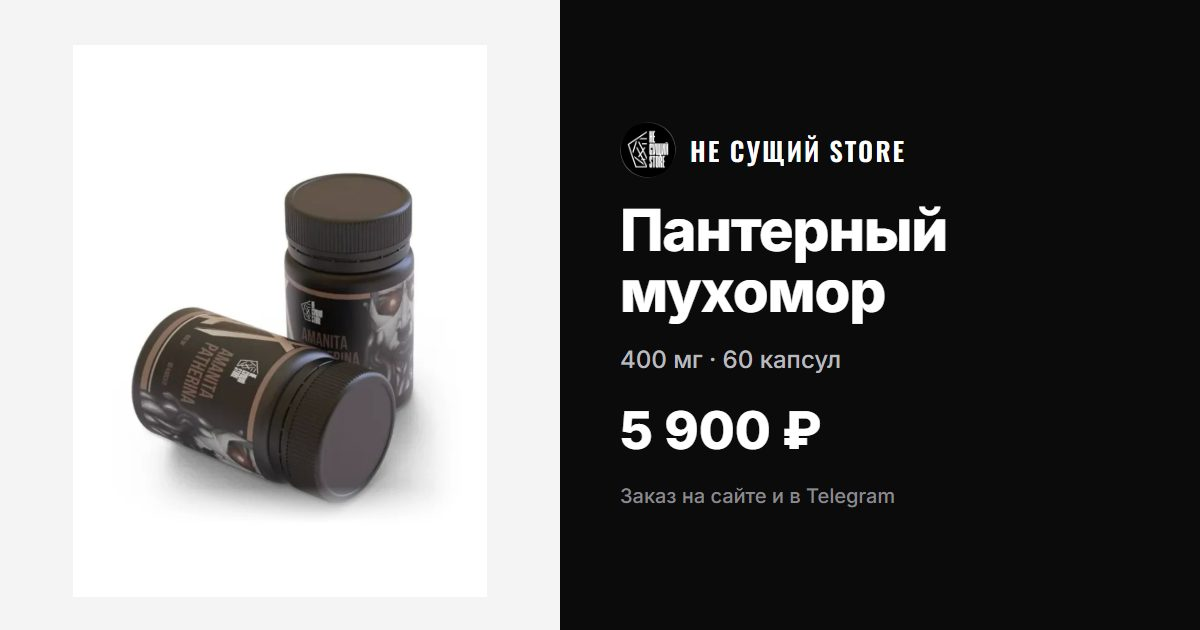
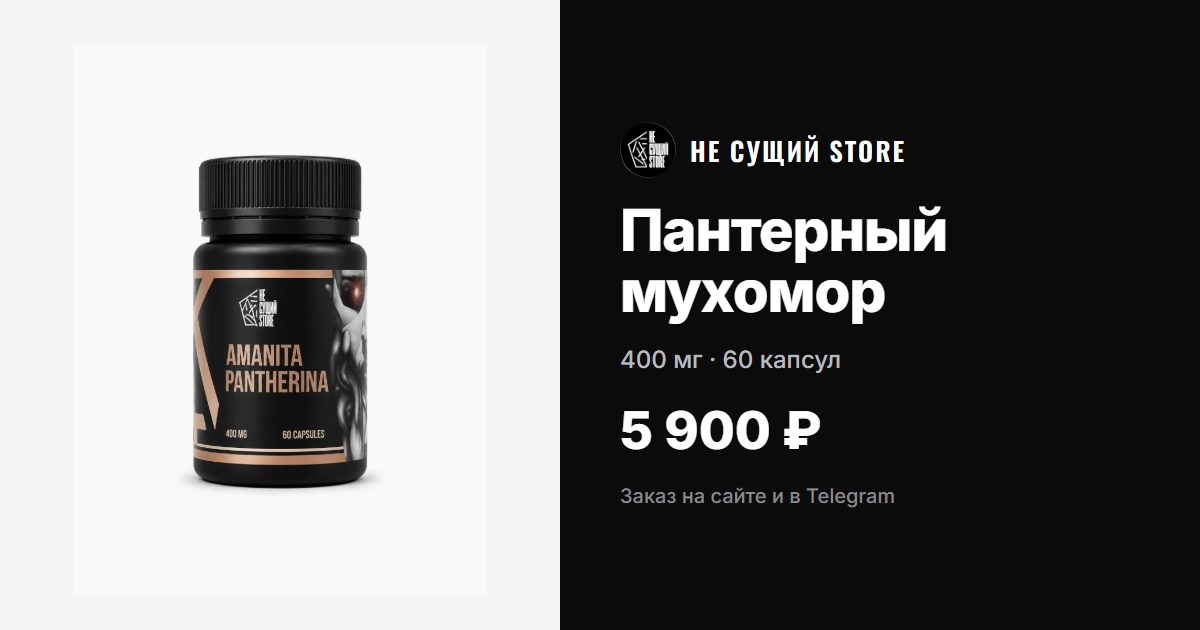
Сайт: b3b929b Новое фото Пантерного мухомора — банка Amanita Pantherina в общем кадре

Changed region(s): [[0.0925, 0.2413, 0.37, 0.8143]]

diff --git a/index.html b/index.html
@@ -24,12 +24,12 @@
   <!-- шрифты не блокируют первую отрисовку -->
   <link rel="preload" as="style" href="https://fonts.googleapis.com/css2?family=Inter:wght@400;500;600;700;800&family=Oswald:wght@500;600&display=swap" onload="this.onload=null;this.rel='stylesheet'">
   <noscript><link rel="stylesheet" href="https://fonts.googleapis.com/css2?family=Inter:wght@400;500;600;700;800&family=Oswald:wght@500;600&display=swap"></noscript>
-  <link rel="stylesheet" href="styles.css?v=2b0e712">
-  <link rel="stylesheet" href="mega.css?v=2b0e712">
-  <link rel="stylesheet" href="home.css?v=2b0e712">
-  <link rel="stylesheet" href="reviews.css?v=2b0e712">
-  <link rel="stylesheet" href="account.css?v=2b0e712">
-  <link rel="stylesheet" href="mobile.css?v=2b0e712">
+  <link rel="stylesheet" href="styles.css?v=b3b929b">
+  <link rel="stylesheet" href="mega.css?v=b3b929b">
+  <link rel="stylesheet" href="home.css?v=b3b929b">
+  <link rel="stylesheet" href="reviews.css?v=b3b929b">
+  <link rel="stylesheet" href="account.css?v=b3b929b">
+  <link rel="stylesheet" href="mobile.css?v=b3b929b">
 </head>
 <body>
   <!-- Иконки -->
@@ -409,12 +409,12 @@
 
   <div class="toast" id="toast" role="status"></div>
 
-  <script defer src="config.js?v=2b0e712"></script>
-  <script defer src="vendor/supabase.js?v=2b0e712"></script>
-  <script defer src="api.js?v=2b0e712"></script>
-  <script defer src="products.js?v=2b0e712"></script>
-  <script defer src="reviews.js?v=2b0e712"></script>
-  <script defer src="app.js?v=2b0e712"></script>
-  <script defer src="account.js?v=2b0e712"></script>
+  <script defer src="config.js?v=b3b929b"></script>
+  <script defer src="vendor/supabase.js?v=b3b929b"></script>
+  <script defer src="api.js?v=b3b929b"></script>
+  <script defer src="products.js?v=b3b929b"></script>
+  <script defer src="reviews.js?v=b3b929b"></script>
+  <script defer src="app.js?v=b3b929b"></script>
+  <script defer src="account.js?v=b3b929b"></script>
 </body>
 </html>

diff --git a/products.js b/products.js
@@ -2314,9 +2314,9 @@ const PRODUCTS = [
     "name": "Пантерный мухомор",
     "pack": "400 мг · 60 капсул",
     "price": 5900,
-    "img": "p/panther.webp?v=3b456a09",
+    "img": "p/panther.webp?v=54798a67",
     "gallery": [
-      "p/panther.webp?v=3b456a09"
+      "p/panther.webp?v=54798a67"
     ],
     "tagline": "Продвинутый микродозинг",
     "desc": "Пантерный Мухомор – более сильная и продвинутая версия красного мухомора. Рекомендуется для тех, кто уже имел опыт приема красного мухомора, для еще более эффективного воздействия на психику и тело",
